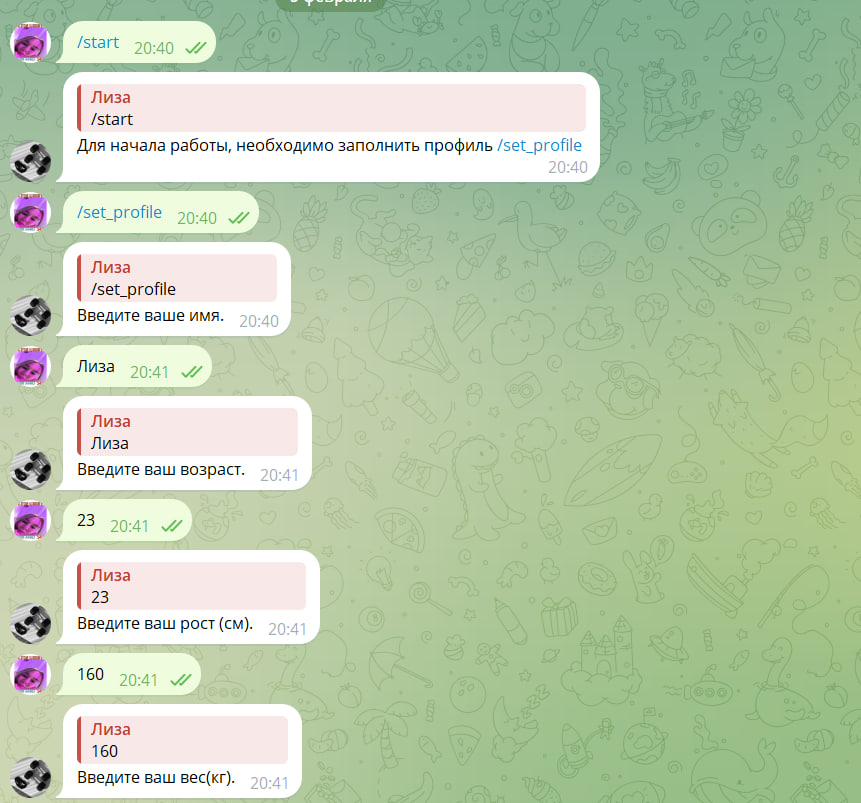
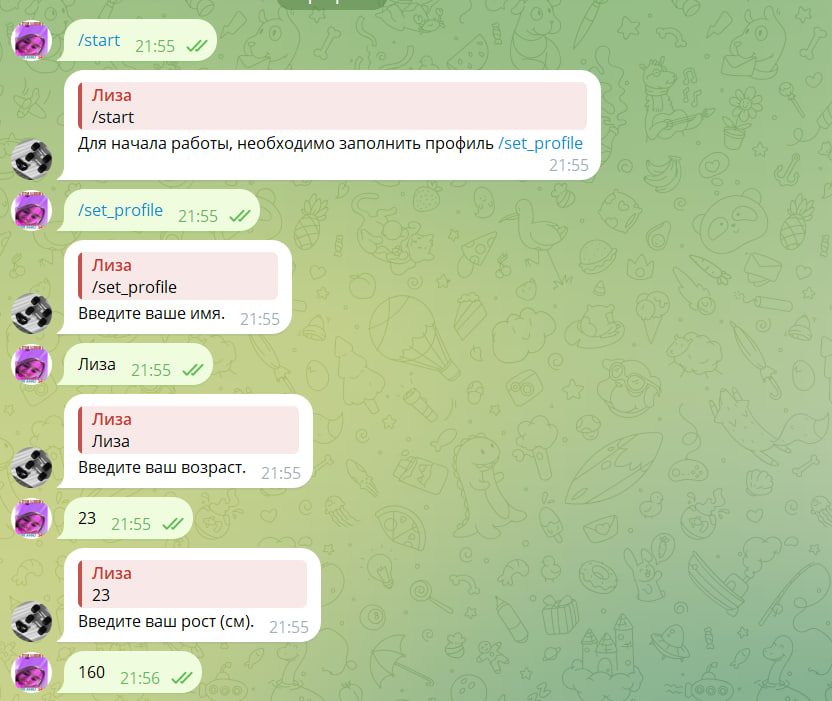
calorie formula changed

diff --git a/handlers.py b/handlers.py
@@ -62,10 +62,21 @@ async def set_weight(message: Message, state: FSMContext):
     try:
         weight = int(message.text)
         await state.update_data(weight=weight)
+        await message.reply('Сколько минут активности у вас в день?')
+        await state.set_state(User.activity)
+    except ValueError:
+        await message.reply("Некоректно введен рост.")
+
+
+@router.message(User.activity)
+async def set_city(message: Message, state: FSMContext):
+    try:
+        activity = int(message.text)
+        await state.update_data(activity=activity)
         await message.reply('Введите город в котором вы находитесь.')
         await state.set_state(User.city)
     except ValueError:
-        await message.reply("Некоректно введен рост")
+        await message.reply("Некоректно введен уровень активности.")
 
 
 @router.message(User.city)
@@ -79,14 +90,15 @@ async def set_city(message: Message, state: FSMContext):
 async def set_calorie_goal(message: Message, state: FSMContext):
     calorie_goal = int(message.text)
     data = await state.get_data()
-    name, age, height, weight, city = data['name'], data['age'], data['height'], data['weight'], data['city']
+    name, age, height, weight, activity, city = data['name'], data['age'], data['height'], data['weight'], data['activity'], data['city']
     if calorie_goal == 0:
-        calorie_goal = calorie_count(weight, height, age)
+        calorie_goal = calorie_count(weight, height, age, activity)
     users[message.from_user.id] = {
         'name': name.title(),
         'age': age,
         'height': height,
         'weight': weight,
+        'activity': activity,
         'city': city.title(),
         'water_goal': water_count(weight),
         'calorie_goal': calorie_goal,
@@ -124,8 +136,7 @@ async def logging_water(message: Message):
             await message.reply('Пожалуйста введите количество воды через пробел')
         else:
             user['logged_water'] += int(log_water[1])
-            await message.reply(f"{user['name']}, вы выпили {log_water[1]} мл воды, осталось выпить"
-                                f" {user['water_goal'] - user['logged_water']} мл")
+            await message.reply(f"{user['name']}, вы выпили {log_water[1]} мл воды, осталось выпить {user['water_goal'] - user['logged_water']} мл")
     except ValueError:
         await message.reply("Попробуйте ввести в формате /log_water <количество>")
 
@@ -182,10 +193,21 @@ async def change_weight(message: Message, state: FSMContext):
     try:
         weight = int(message.text)
         await state.update_data(weight=weight)
+        await message.reply('Сколько минут активности у вас в день?')
+        await state.set_state(UserChange.activity)
+    except ValueError:
+        await message.reply("Некоректно введен вес.")
+
+
+@router.message(UserChange.activity)
+async def change_activity(message: Message, state: FSMContext):
+    try:
+        activity = int(message.text)
+        await state.update_data(activity=activity)
         await message.reply('Введите город в котором вы находитесь.')
         await state.set_state(UserChange.city)
     except ValueError:
-        await message.reply("Некоректно введен вес")
+        await message.reply("Некоректно введен уровень активности.")
 
 
 @router.message(UserChange.city)
@@ -200,11 +222,12 @@ async def change_city(message: Message, state: FSMContext):
     user = users.get(message.from_user.id)
     calorie_goal = int(message.text)
     data = await state.get_data()
-    age, weight, city = data['age'], data['weight'], data['city']
+    age, weight, activity, city = data['age'], data['weight'], data['activity'], data['city']
     if calorie_goal == 0:
-        calorie_goal = calorie_count(weight, user['height'], age)
+        calorie_goal = calorie_count(weight, user['height'], age, activity)
     user['age'] = age
     user['weight'] = weight
+    user['activity'] = activity
     user['city'] = city.title()
     user['water_goal'] = water_count(weight)
     user['calorie_goal'] = calorie_goal
@@ -233,7 +256,7 @@ async def get_advice(callback: CallbackQuery):
 async def get_advice(callback: CallbackQuery):
     await callback.answer('Вы выбрали Идеи упражнений')
     await callback.message.answer(f'🔹 Скакалка - за минуту можно сжечь 14-15 ккал.\n'
-                                  f'🔹  Приседания - можно потратить 53,6 ккал за 4 минуты.\n'
+                                  f'🔹 Приседания - можно потратить 53,6 ккал за 4 минуты.\n'
                                   f'🔹 Бёрпи - на одно бёрпи (отжимание с подпрыгванием) затрачивается 1,40 ккал\n'
                                   f'🔹 Плавание - плавание брассом сжигает порядка 750 килокалорий, а на спине — 600.\n'
                                   f'🔹 Велоспорт - можно сжечь ~600 килокалорий за часовую велосипедную поездку.\n'
@@ -285,8 +308,9 @@ async def log_workout(message: Message):
         user['burned_calories'] += count_calories
         water = (int(duration) // 30) * 200
         user['water_goal'] += water
-        await message.reply(f"💪 {user['name']}, вы выполнили тренировку {activity} {duration} минут - {count_calories} ккал.\n"
-                            f"Дополнительно: выпейте {water} мл воды.")
+        await message.reply(
+            f"💪 {user['name']}, вы выполнили тренировку {activity} {duration} минут - {count_calories} ккал.\n"
+            f"Дополнительно: выпейте {water} мл воды.")
     except ValueError:
         await message.reply('Попробуйте ввести еще раз а таком формате /log_workout <типтренировки> <время(мин)>')
 

diff --git a/functions.py b/functions.py
@@ -30,8 +30,12 @@ def get_calorie(food, key):
         return f"Error: {response.status_code}, {response.text}"
 
 
-def calorie_count(weight, height, age):
-    return 10 * weight + 6.25 * height - 5 * age
+def calorie_count(weight, height, age, activity):
+    if activity <= 30:
+        cal = 10 * weight + 6.25 * height - 5 * age + 200
+    else:
+        cal = 10 * weight + 6.25 * height - 5 * age + 400
+    return cal
 
 
 def water_count(weight):
